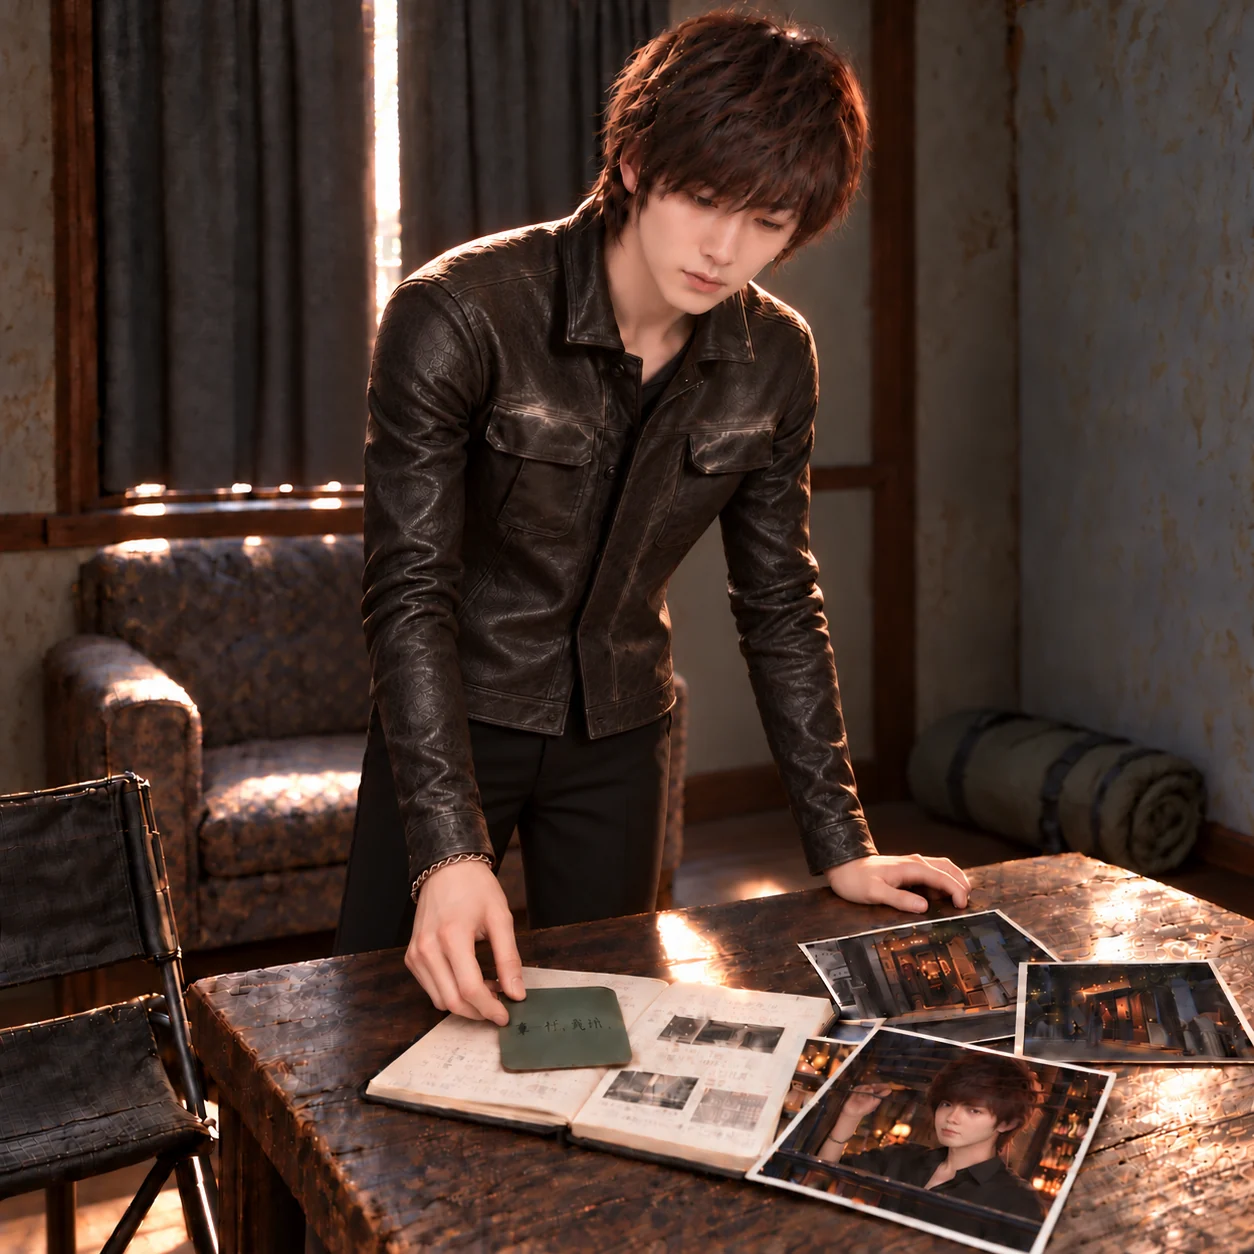
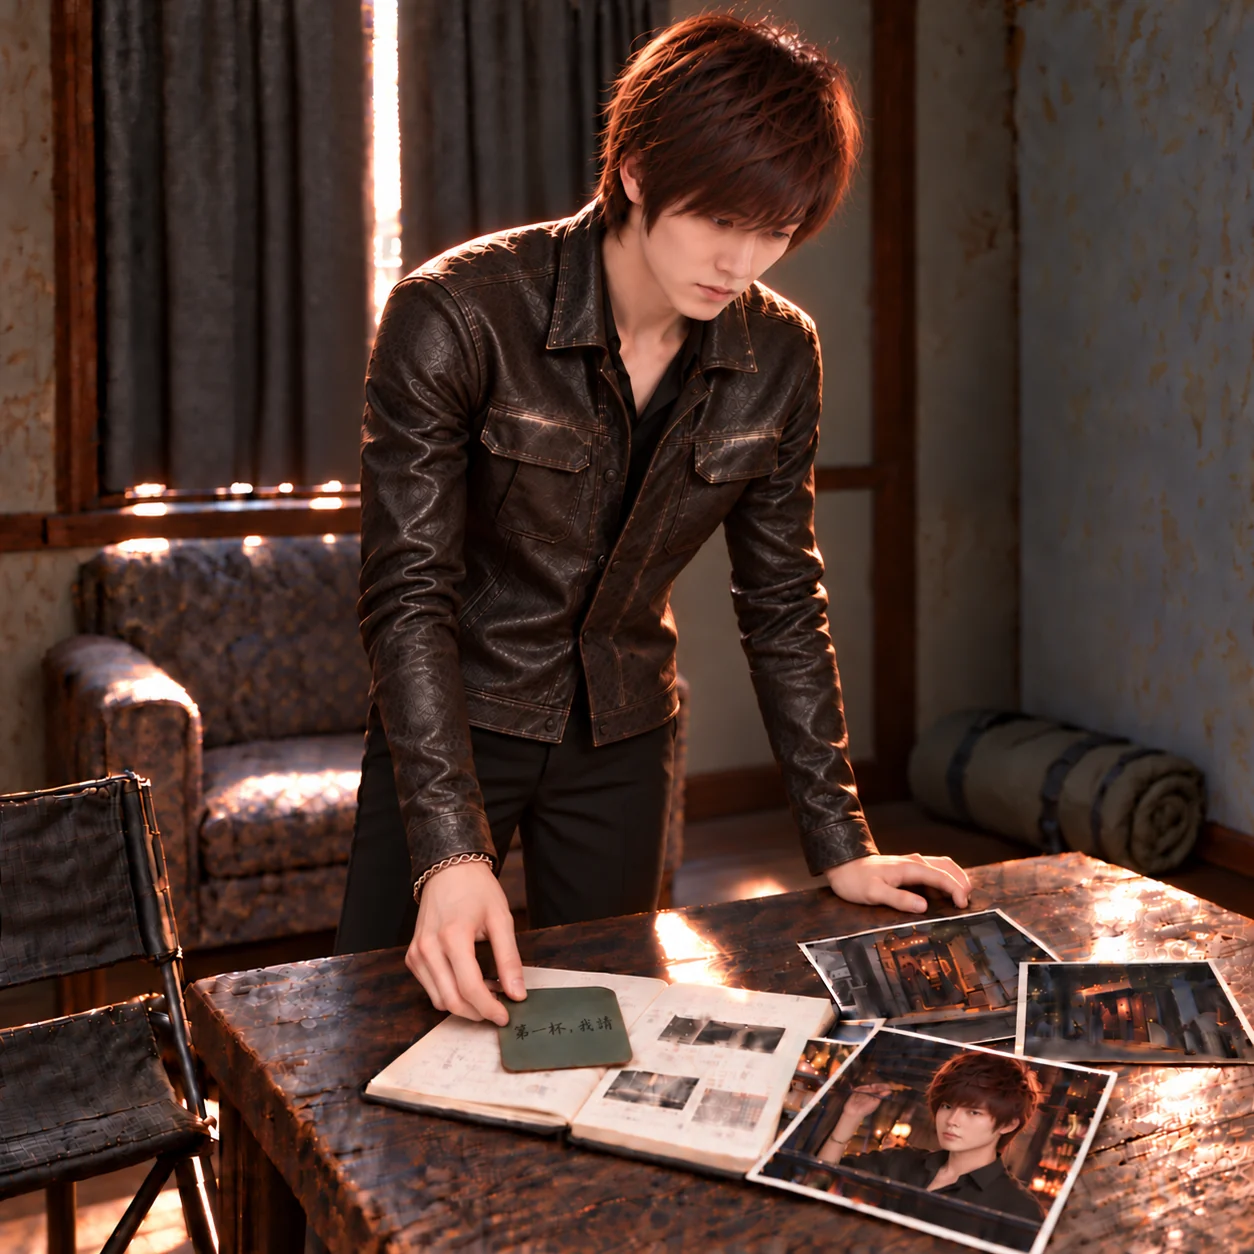
第一部第二章江澈配圖改用新版
Claude-Session: https://claude.ai/code/session_01GBWYe2ZCjBEsB5sU4wpFsc

diff --git a/novels/no-signboard-bar/chapter-02.html b/novels/no-signboard-bar/chapter-02.html
@@ -238,7 +238,7 @@
 <p>我想不出來，只好先把處方箋排好。</p>
 </section>
 <section class="pov pov-jiang" data-name="江澈">
-<div class="pov-opening"><h2 class="pov-title" id="pov-4"><span>敘事視角</span>江澈</h2><a class="pov-art" href="../../assets/novels/no-signboard-bar/chapter-02-jiang-che.webp?v=20261014" target="_blank" rel="noopener" aria-label="開啟江澈插圖大圖"><img src="../../assets/novels/no-signboard-bar/chapter-02-jiang-che.webp?v=20261014" class="soft-edge" alt="江澈在陸曜的空房裡，把寫著「第一杯，我請。」的深綠色杯墊放在筆記本上，旁邊是他撥開百葉窗的照片。" width="1254" height="1254" loading="lazy" decoding="async"><span class="pov-cap">這張拍得不錯</span></a><div class="pov-intro"><p>老公寓的門鎖，我十幾歲就會開了。</p>
+<div class="pov-opening"><h2 class="pov-title" id="pov-4"><span>敘事視角</span>江澈</h2><a class="pov-art" href="../../assets/novels/no-signboard-bar/chapter-02-jiang-che.webp?v=20261014b" target="_blank" rel="noopener" aria-label="開啟江澈插圖大圖"><img src="../../assets/novels/no-signboard-bar/chapter-02-jiang-che.webp?v=20261014b" class="soft-edge" alt="江澈在陸曜的空房裡，把寫著「第一杯，我請。」的深綠色杯墊放在筆記本上，旁邊是他撥開百葉窗的照片。" width="1254" height="1254" loading="lazy" decoding="async"><span class="pov-cap">這張拍得不錯</span></a><div class="pov-intro"><p>老公寓的門鎖，我十幾歲就會開了。</p>
 <p>三樓靠巷子那一間，門後什麼都沒設，連根頭髮都沒夾。要嘛很有自信，要嘛累到懶得弄。</p>
 <p>我猜是累了。</p></div></div>
 <p>房間幾乎是空的，一張摺疊椅，一張矮桌，牆角捲著一個睡袋，看起來沒怎麼攤開過。窗簾拉開十公分，地板上留著三個淺淺的壓痕，是腳架的位置。我站到那裡往外看，正好對著我的窗。</p>
